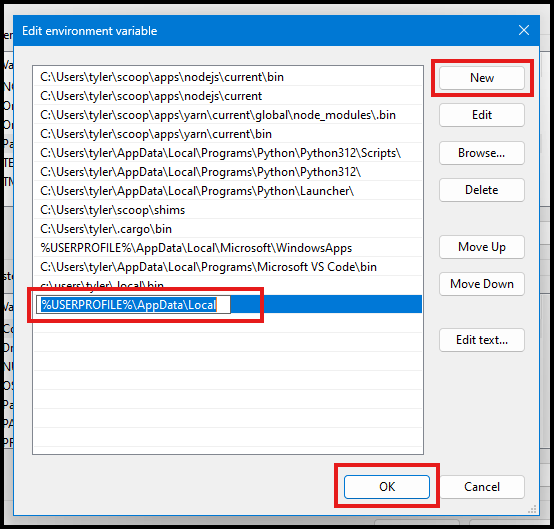
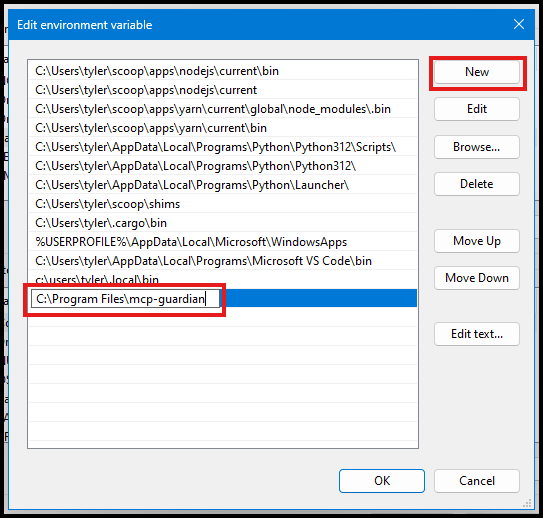
Simplify windows install to use msi

Changed region(s): [[0.0, 0.0, 1.0, 1.0]]

diff --git a/docs/src/installing/windows.md b/docs/src/installing/windows.md
@@ -1,9 +1,8 @@
 # Installing - Windows
-MCP Guardian consists of two main parts; the proxy and a user interface for configuration. There are two user interfaces provided; a CLI and a desktop gui. This doc will go through installing the gui, but you can do all the same configuration through the CLI.
 
 ## Download  
 
-Download the the latest Windows zip package from [github](https://github.com/eqtylab/mcp-guardian/releases)
+Download the the latest Windows msi installer package from [github](https://github.com/eqtylab/mcp-guardian/releases)
 ![asset files](./resources/win-release-assets.png)
 
 > You may need to show all assets to find the installer.  
@@ -11,31 +10,7 @@ Download the the latest Windows zip package from [github](https://github.com/eqt
 
 ## Install 
 
-### Install - Proxy
-
-* Rename `mcp-guardian-proxy_x86_64-windows.exe` to `mcp-guardian-proxy.exe`
-* Move `mcp-guardian-proxy.exe` to you local appdata folder.  
-> To find your appdata folder:  
-> In PowerShell ```sh echo  $env:LOCALAPPDATA```  
-> In command prompt ```sh echo %LOCALAPPDATA%```  
-
-
-* Add the exe to your path to make it easier to call from anywhere on your system:  
-1. Open the Start Menu and search for "Environment Variables" and select "Edit the system environment variables".  
-![start menu](./resources/win-edit-env-var.png)
-2. In the System Properties window, click on the "Environment Variables" button.  
-![start menu](./resources/win-env-vars.png)
-3. In the Environment Variables window, find the "Path" variable in the "System variables" section and select it, then click "Edit".
-![start menu](./resources/win-new-env-var.png)
-4. In the Edit Environment Variable window, click "New" and add `%USERPROFILE%\AppData\Local`  
-![start menu](./resources/win-new-new-env-var.png)
-5. Click `Apply` or `Ok` in each of those windows to close them 
-
-* Open a PowerShell shell and run ```sh mcp-guardian-proxy --help``` and you should see output like this:  
-![proxy cli](./resources/proxy-cli.png)
-
-### Install - GUI
-
+* After the download finishes, open the File Explorer and navigate to the download folder.
 * Right click the msi file and select `Properties`  
 ![properties](./resources/msi-properties.png)
 
@@ -49,6 +24,22 @@ Download the the latest Windows zip package from [github](https://github.com/eqt
 ![security](./resources/msi-user-account-control.png)
 
 * After the installer completes, click `Finish` and the MCP Guardian UI will launch automatically.
+
+### Proxy Setup
+To make it easier to call the MCP Guardian Proxy, we'll now add the install location to your system path.
+
+1. Open the Start Menu and search for "Environment Variables" and select "Edit the system environment variables".  
+![start menu](./resources/win-edit-env-var.png)
+2. In the System Properties window, click on the "Environment Variables" button.  
+![start menu](./resources/win-env-vars.png)
+3. In the Environment Variables window, find the "Path" variable in the "System variables" section and select it, then click "Edit".
+![start menu](./resources/win-new-env-var.png)
+4. In the Edit Environment Variable window, click "New" and add `C:\Program Files\mcp-guardian`  
+![start menu](./resources/win-new-new-env-var.png)
+5. Click `Apply` or `Ok` in each of those windows to close them 
+
+* Open a PowerShell shell and run ```sh mcp-guardian-proxy --help``` and you should see output like this:  
+![proxy cli](./resources/proxy-cli.png)
 
 
 MCP Guardian is now installed. Check out the intro and tutorials to start using MCP Guardian with Claude Desktop.
